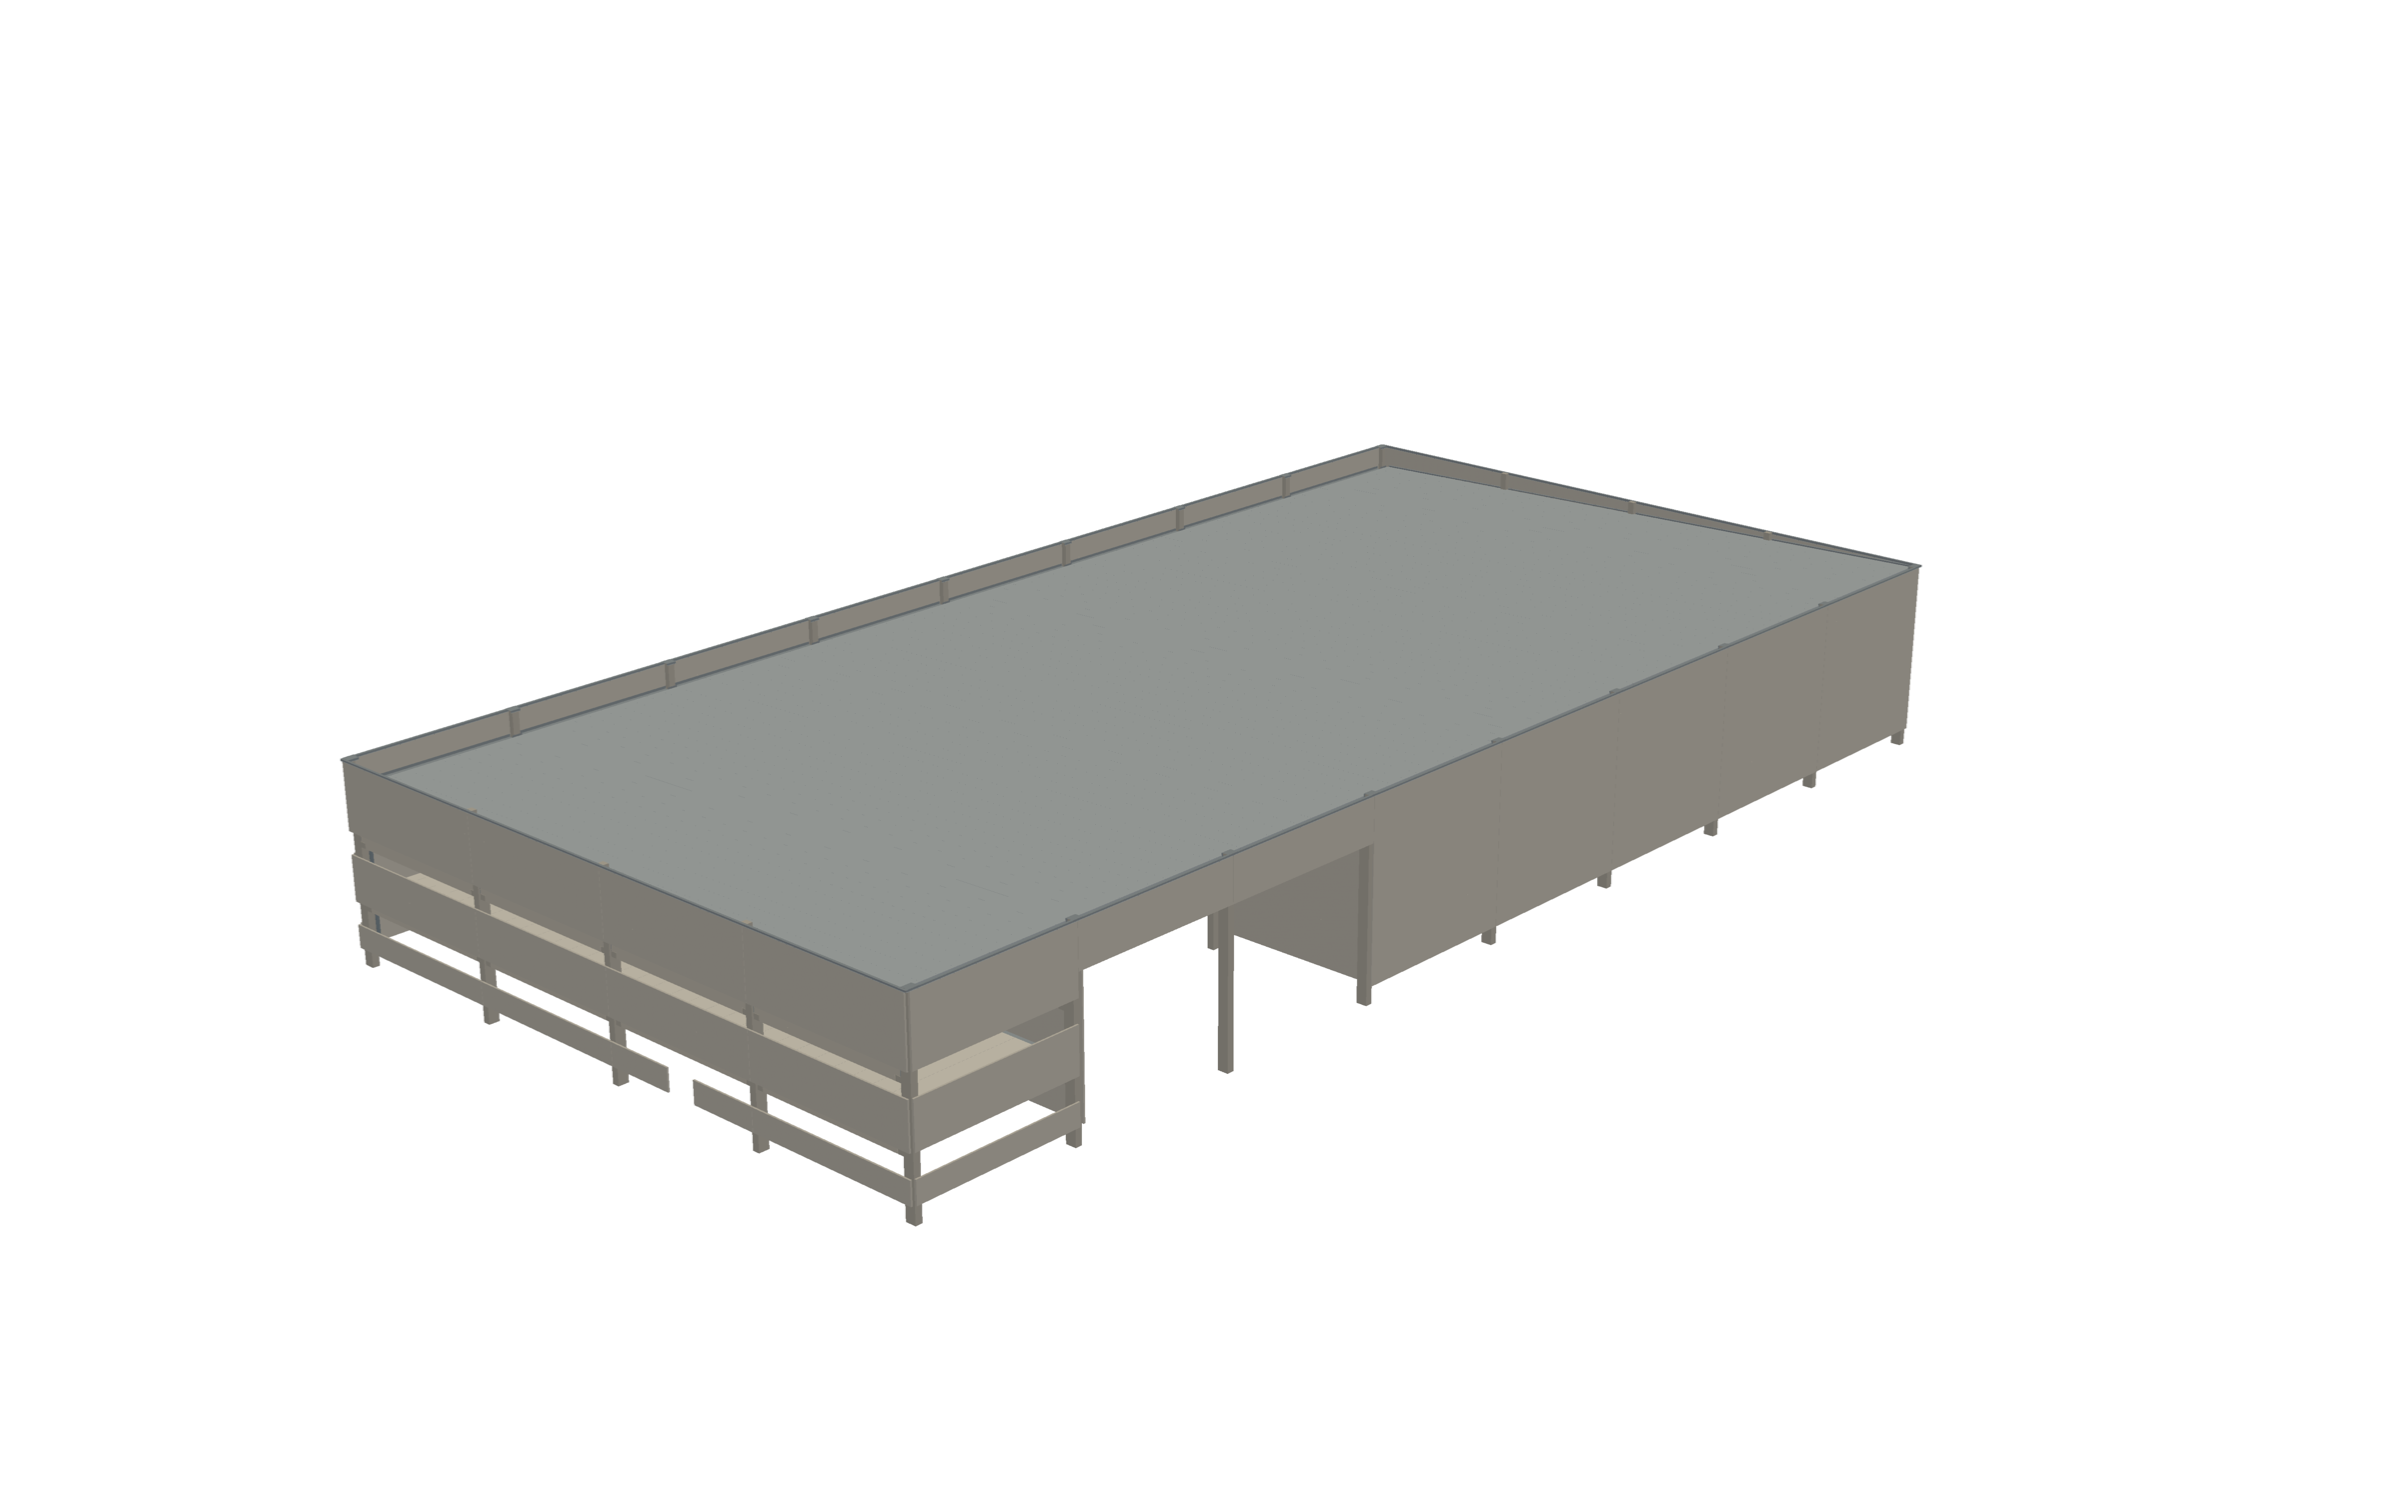
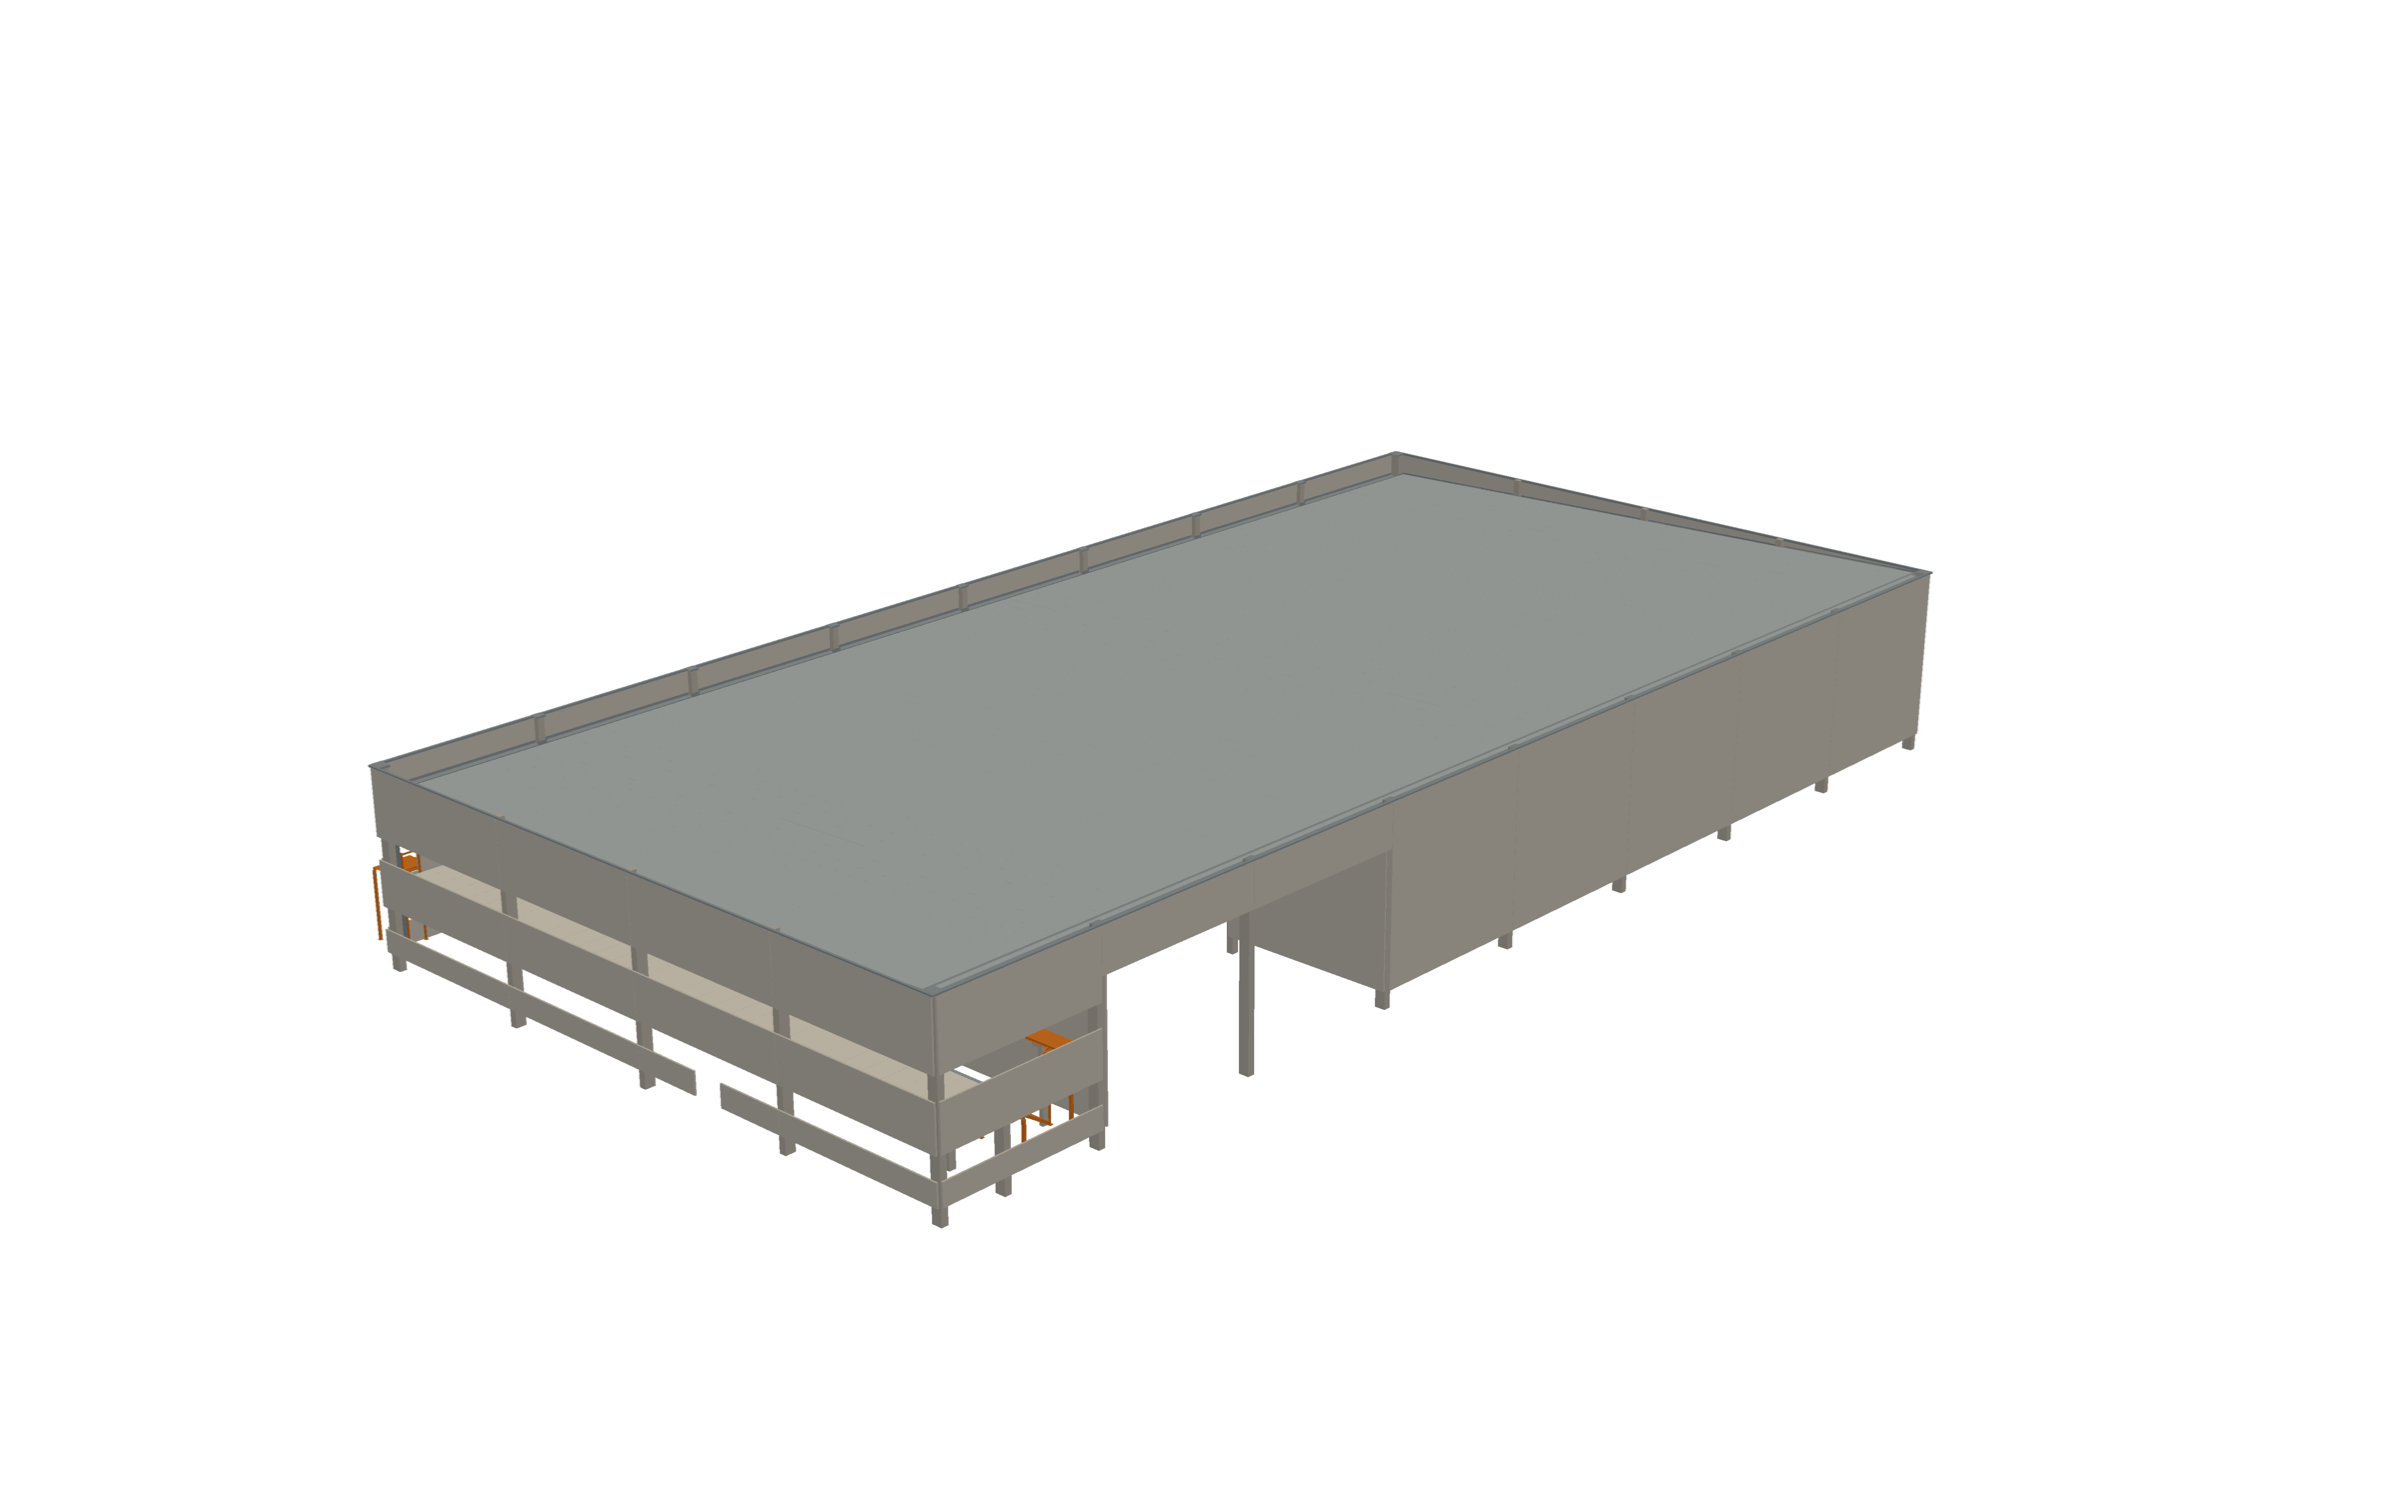
Letsara rev09: jogo completo regenerado (0 erros/0 avisos), quantitativos com Ø25, NG01 com o modelo novo, pranchas unidas rev09
Claude-Session: https://claude.ai/code/session_01KHXVjkBxNhANke9ktcjzqm

diff --git a/nd_estruturas/exemplos/letsara/pranchas/corte01.py b/nd_estruturas/exemplos/letsara/pranchas/corte01.py
@@ -172,7 +172,7 @@ def estrutura(R, eixo):
             R.ret(x_ - 125, a_["z_concreto"] * 1000 + 20, 250, 19, "METALICA")
     else:
         _H = H_I130                                                 # DEC-054: h 120
-    sec = [(-200, 0), (200, 0), (200, 250), (75, 330), (75, _H - 300), (200, _H - 220), (200, _H), (-200, _H), (-200, _H - 220),
+        sec = [(-200, 0), (200, 0), (200, 250), (75, 330), (75, _H - 300), (200, _H - 220), (200, _H), (-200, _H), (-200, _H - 220),
                (-75, _H - 300), (-75, 330), (-200, 250)]
         base = Z_TOP_C - H_I130
         R.poli([(XC + x, base + y) for x, y in sec], "CORTADO", True)
@@ -242,7 +242,7 @@ for k, (eixo, org, nome) in enumerate(((2, (100, 560), "CORTE 2-2"), (3, (100, 1
     if eixo == 3:
         v.chamada((10000, zf(10000) + 450), (8, -16), "TS-01 — viga I90 protendida, caimento 3 %, sem dentes (apoio direto)")
     else:
-        v.chamada((14000, zf(14000) + 1150), (-8, -12), f"{CB2['perfil'].replace(' x ', ' × ')} nos pilares e em montantes no meio dos vãos (ND-LET-COB05)")
+        v.chamada((12000, zf(12000) + 1150), (8, 12), f"{CB2['perfil'].replace(' x ', ' × ')} nos pilares e em montantes no meio dos vãos (ND-LET-COB05)")
     v.chamada((39875, 5000), (6, 0), "placa 10 cm (por fora)")
     v.chamada((39350, 9950), (8, 20), f"cabeça 40×30; folga de {Z_TOP_PIL - z_tel(39475):.0f} mm do topo dos painéis à platibanda")
     if eixo == 3:

diff --git a/nd_estruturas/exemplos/letsara/modelo_bim.py b/nd_estruturas/exemplos/letsara/modelo_bim.py
@@ -657,7 +657,7 @@ def montar() -> ModeloBIM:
         m.linear("viga", "LE-2 longarina U 152 × 12,2 (lance de baixo)", U152, (xb1, ys_, 0.09), (xb1 + _k * (xb0 - xb1), ys_, 0.09 + _k * (zpt - 0.10 - 0.09)), GEX, material="aco")
     for k_ in range(1, 5):
         xk = xb1 + (k_ - 0.5) * piso_
-        m.linear("placa", "DE-1 degrau chapa xadrez 4,75", PerfilRetangular(piso_ + 0.03, 0.00475), (xk, yp0 + 0.06, k_ * esp_ - 0.0024), (xk, yp1 - 0.06, k_ * esp_ - 0.0024), GEX, cima=(0.0, 0.0, 1.0), material="aco")
+        m.linear("placa", "DE-1 degrau chapa xadrez 4,75", PerfilRetangular(piso_ - 0.01, 0.00475), (xk - 0.005, yp0 + 0.06, k_ * esp_ - 0.0024), (xk, yp1 - 0.06, k_ * esp_ - 0.0024), GEX, cima=(0.0, 0.0, 1.0), material="aco")
     for (ya_, yb_), zz, nm_ in ((XG["y_chegada"], zch, "patamar de chegada +3,90"), ((yp0, yp1), zpt, "patamar +0,89")):
         for xv in (xi - 0.05, xe_ + 0.05):
             m.linear("viga", f"VE viga W 150 × 13,0 ({nm_})", W150e, (xv, ya_ + 0.01, zz - 0.0063 - 0.074), (xv, yb_ - 0.01, zz - 0.0063 - 0.074), GEX, material="aco")

diff --git a/nd_estruturas/exemplos/letsara/pranchas/quantitativos.py b/nd_estruturas/exemplos/letsara/pranchas/quantitativos.py
@@ -27,7 +27,7 @@ def num(s):
         s = s.replace(".", "")
     return float(s)
 KGM = {6.3: 0.245, 8.0: 0.395, 10.0: 0.617, 12.5: 0.963, 16.0: 1.578, 20.0: 2.466, 25.0: 3.853}
-DIAMS = [6.3, 8.0, 10.0, 12.5, 16.0, 20.0]
+DIAMS = [6.3, 8.0, 10.0, 12.5, 16.0, 20.0, 25.0]   # DEC-054: N3 6 Ø25 da I130
 
 
 def tab(folha, inicio):
